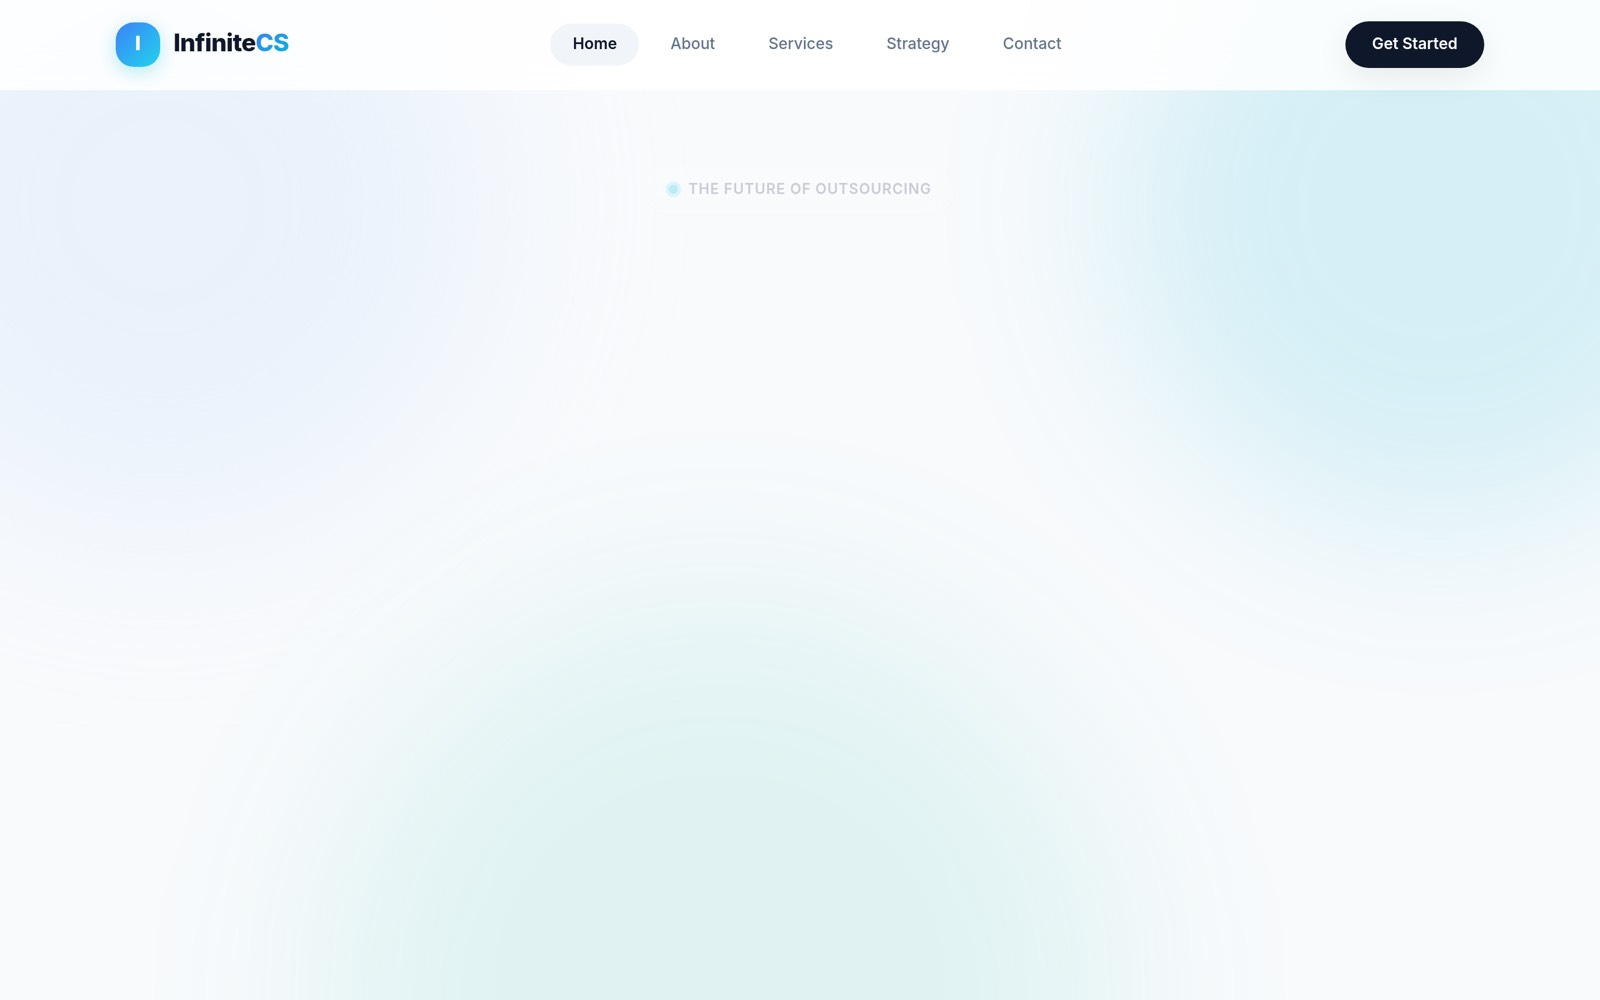
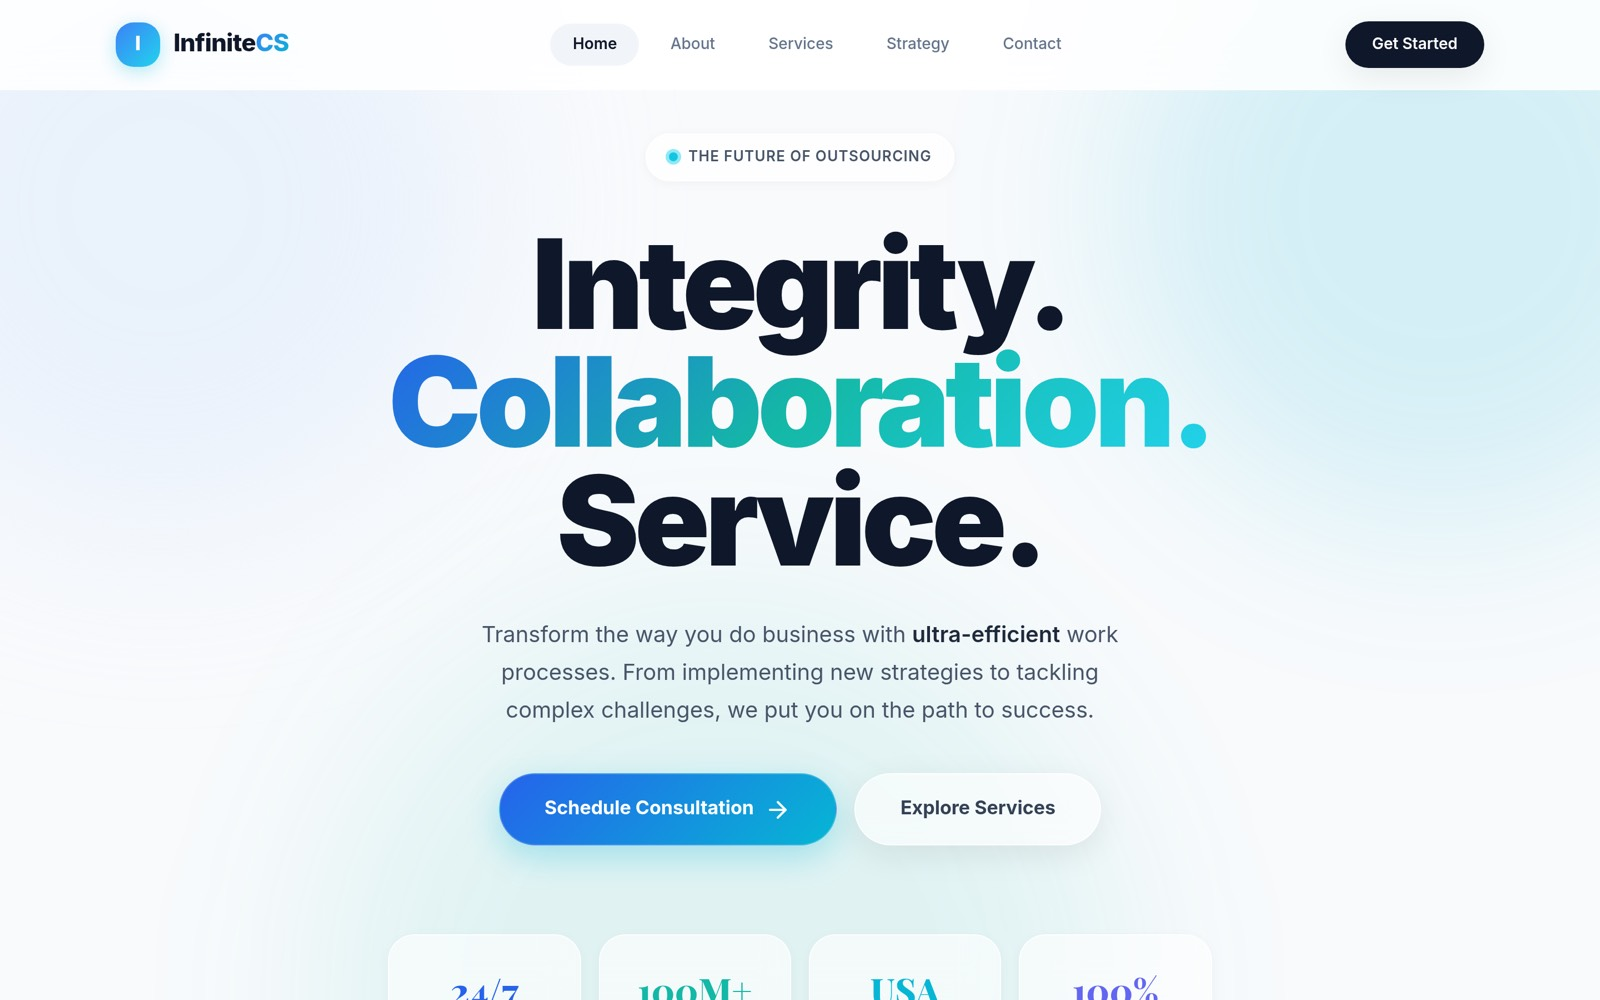
Fix invisible work images; bolder brume; Services page; richer case pages (full-page shots + plain-language outcome)

diff --git a/src/lib/content.ts b/src/lib/content.ts
@@ -41,7 +41,7 @@ export const LIVE: Record<Slug, string> = {
 export const content = {
   en: {
     htmlLang: "en",
-    nav: { work: "Work", studio: "Studio", contact: "Contact", cta: "Start a conversation" },
+    nav: { work: "Work", services: "Services", studio: "Studio", contact: "Contact", cta: "Start a conversation" },
     meta: {
       title: "Maison Brume — Editorial web design for fashion houses",
       description:
@@ -68,6 +68,8 @@ export const content = {
       closingCta: "Message the studio",
       caseLead: "Convinced? The studio is one message away.",
       caseCta: "Message about a house like this",
+      plainLabel: "In plain terms",
+      fullCaption: "The site, top to bottom",
       view: "View",
       live: "View live",
       back: "All work",
@@ -83,6 +85,20 @@ export const content = {
       eyebrow: "How it begins",
       title: "No deck. No discovery retainer.",
       body: "I study your business, then design a tailored concept of your site — yours to see before any commitment. If it moves you, we build it. If it doesn't, you keep the thinking.",
+    },
+    services: {
+      eyebrow: "Services",
+      title: "What I can build for your business.",
+      intro: "Not just a pretty page. The whole machine behind it — the site, the dashboard, the automations that run while you sleep.",
+      items: [
+        { name: "One-page sites", outcome: "One scroll, one message, launched fast. For a collection, a drop, a single statement that has to land." },
+        { name: "Multipage sites", outcome: "A full brand world — story, collection, atelier, contact. Room for the house to breathe and the customer to wander." },
+        { name: "Business dashboards", outcome: "See everything in one place — sales, clients, stock, orders, what is working and what is leaking. Stop running the business from spreadsheets and memory." },
+        { name: "AI assistants & bots", outcome: "A concierge that answers, qualifies and books — on the site and on WhatsApp — at 3am, in your voice, without you." },
+        { name: "Email & message automation", outcome: "Follow-ups that send themselves. Welcome, remind, recover the abandoned order, re-engage the quiet client — without you remembering to." },
+        { name: "Rebrands & redesigns", outcome: "Same house, finally dressed right. The single change that makes everything after it look more expensive." },
+      ],
+      cta: "Tell me what you need",
     },
     studio: {
       eyebrow: "Studio",
@@ -114,6 +130,7 @@ export const content = {
         approach: "Editorial pacing over commerce. A pinned horizontal atelier sequence, a drag-snap collection, smooth-scroll choreography. Restraint made the brand's voice.",
         craft: "Cormorant Garamond paired with Markazi Text so the Arabic reads as composed editorial, not a flipped Latin layout. Around 3,200 lines, no framework, deploys anywhere.",
         result: "A prototype that reads like a house, not a theme.",
+        plain: "In plain terms: a brand-new label that looks established and expensive from its first day online — the kind of first impression that lets a house charge what it is worth.",
       },
       "nota-parfum": {
         name: "Nota Parfum", kind: "Fès perfume house · concept",
@@ -121,6 +138,7 @@ export const content = {
         approach: "An unsolicited, fully-built proposal — their real catalogue, prices and voice baked in. The argument made by showing, not pitching.",
         craft: "An Astro component system, an opening ritual, fragrance cards, WhatsApp-native ordering, fully tested.",
         result: "A complete site, delivered before the conversation. The method, made tangible.",
+        plain: "In plain terms: instead of a pitch deck, they got a finished site with their own products already in it — the fastest possible way to show what working together actually feels like.",
       },
       "cgs-language-services": {
         name: "CGS Language Services", kind: "Translation house · shipped to production",
@@ -128,6 +146,7 @@ export const content = {
         approach: "One promise — 24-hour, university-accepted document translation — carried through a WhatsApp-first funnel. No portals, no service bloat. Motion and type tuned to read admissions-grade, not corporate-template.",
         craft: "Four-language i18n with language-aware dir and lang, Arabic flipping to right-to-left at the root via logical properties so every layout stays mirror-correct. React, Vite, Tailwind, Framer Motion. Around 2,000 lines, shipped to production.",
         result: "A four-language site live for a real agency — Arabic composed, not bolted on.",
+        plain: "In plain terms: a translation business that now looks as trustworthy as the universities it serves — in four languages — and turns visitors into WhatsApp enquiries instead of losing them.",
       },
       "china-global-study": {
         name: "China Global Study", kind: "Placement agency · shipped, in daily use",
@@ -135,6 +154,7 @@ export const content = {
         approach: "One pipeline, end to end — eight stages from inquiry to enrolled, drag-and-drop, money tracked where it belongs, document state at a glance. Built to be lived in, not demoed.",
         craft: "Next.js on Supabase — seven referential tables, payment status governed by strict rules, an eight-stage kanban, five swappable themes. Around 4,000 lines, shipped to production.",
         result: "The spreadsheets are gone. It is open every working day.",
+        plain: "In plain terms: the agency stopped losing students inside spreadsheets. Every applicant, payment and document is now one glance away — and the team actually opens it every day.",
       },
       infinitecs: {
         name: "InfiniteCS", kind: "Enterprise marketing site · showcase",
@@ -142,13 +162,14 @@ export const content = {
         approach: "Glassmorphism over deep slate, editorial scale, GSAP scroll choreography, animated impact figures, a single clear funnel — then the sections any serious B2B site needs, which the brief had left out.",
         craft: "Vite and vanilla JS — no framework, no backend, one static bundle. Design-token-driven, around 2,500 lines, eleven sections.",
         result: "The prospect shelved the project. The work was too good to bury — so it is here.",
+        plain: "In plain terms: even a project that never went live shows the standard — premium, considered, the exact opposite of a template.",
       },
     },
   },
 
   fr: {
     htmlLang: "fr",
-    nav: { work: "Travaux", studio: "Le studio", contact: "Contact", cta: "Engager la conversation" },
+    nav: { work: "Travaux", services: "Prestations", studio: "Le studio", contact: "Contact", cta: "Engager la conversation" },
     meta: {
       title: "Maison Brume — Design web éditorial pour maisons de mode",
       description:
@@ -175,6 +196,8 @@ export const content = {
       closingCta: "Écrire au studio",
       caseLead: "Convaincu ? Le studio est à un message près.",
       caseCta: "Écrire au sujet d'une maison comme celle-ci",
+      plainLabel: "En clair",
+      fullCaption: "Le site, de haut en bas",
       view: "Découvrir",
       live: "Voir en ligne",
       back: "Tous les travaux",
@@ -190,6 +213,20 @@ export const content = {
       eyebrow: "Comment cela commence",
       title: "Pas de présentation. Pas d'acompte de cadrage.",
       body: "J'étudie votre activité, puis je conçois un concept sur mesure de votre site — à voir avant tout engagement. S'il vous touche, nous le construisons. Sinon, la réflexion vous reste acquise.",
+    },
+    services: {
+      eyebrow: "Prestations",
+      title: "Ce que je peux construire pour votre activité.",
+      intro: "Pas seulement une belle page. Toute la mécanique derrière — le site, le tableau de bord, les automatisations qui tournent pendant que vous dormez.",
+      items: [
+        { name: "Sites une page", outcome: "Un seul défilement, un seul message, lancé vite. Pour une collection, un drop, une déclaration qui doit faire mouche." },
+        { name: "Sites multipages", outcome: "Un univers de marque complet — histoire, collection, atelier, contact. De l'espace pour que la maison respire." },
+        { name: "Tableaux de bord", outcome: "Tout voir au même endroit — ventes, clients, stock, commandes, ce qui marche et ce qui fuit. Finis le tableur et la mémoire." },
+        { name: "Assistants & bots IA", outcome: "Un concierge qui répond, qualifie et réserve — sur le site et sur WhatsApp — à 3h du matin, dans votre voix, sans vous." },
+        { name: "Automatisation e-mail & messages", outcome: "Des relances qui s'envoient seules. Accueillir, rappeler, récupérer le panier abandonné, réveiller le client silencieux — sans y penser." },
+        { name: "Refontes & rebranding", outcome: "La même maison, enfin bien habillée. Le seul changement qui rend tout le reste plus cher." },
+      ],
+      cta: "Dites-moi ce qu'il vous faut",
     },
     studio: {
       eyebrow: "Le studio",
@@ -221,6 +258,7 @@ export const content = {
         approach: "Le rythme éditorial avant le commerce. Une séquence atelier horizontale épinglée, une collection à défilement aimanté, une chorégraphie au scroll. La retenue est devenue la voix de la marque.",
         craft: "Cormorant Garamond associé à Markazi Text pour que l'arabe se lise comme un éditorial composé, et non comme une mise en page latine inversée. Environ 3 200 lignes, sans framework, déployable partout.",
         result: "Un prototype qui se lit comme une maison, pas comme un template.",
+        plain: "En clair : une toute jeune marque qui paraît établie et chère dès son premier jour en ligne — la première impression qui permet à une maison de facturer ce qu'elle vaut.",
       },
       "nota-parfum": {
         name: "Nota Parfum", kind: "Maison de parfum fassie · concept",
@@ -228,6 +266,7 @@ export const content = {
         approach: "Une proposition spontanée et entièrement construite — leur vrai catalogue, leurs prix et leur voix intégrés. La démonstration par la preuve, non par le discours.",
         craft: "Un système de composants Astro, un rituel d'ouverture, des cartes de fragrance, la commande native par WhatsApp, entièrement testé.",
         result: "Un site complet, livré avant la conversation. La méthode, rendue tangible.",
+        plain: "En clair : au lieu d'un dossier de présentation, ils ont reçu un site fini avec leurs propres produits dedans — la façon la plus rapide de montrer ce que travailler ensemble donne vraiment.",
       },
       "cgs-language-services": {
         name: "CGS Language Services", kind: "Maison de traduction · livré en production",
@@ -235,6 +274,7 @@ export const content = {
         approach: "Une seule promesse — la traduction de documents acceptée par les universités en 24 heures — portée par un tunnel WhatsApp d'abord. Pas de portail, pas de superflu. Mouvement et typographie réglés pour un ton d'admission, non corporate-template.",
         craft: "Une i18n en quatre langues avec dir et lang adaptés, l'arabe basculant de droite à gauche à la racine via les propriétés logiques pour que chaque mise en page reste correctement en miroir. React, Vite, Tailwind, Framer Motion. Environ 2 000 lignes, livré en production.",
         result: "Un site en quatre langues en ligne pour une vraie agence — l'arabe composé, non ajouté après coup.",
+        plain: "En clair : une activité de traduction qui paraît désormais aussi fiable que les universités qu'elle sert — en quatre langues — et qui transforme les visiteurs en demandes WhatsApp au lieu de les perdre.",
       },
       "china-global-study": {
         name: "China Global Study", kind: "Agence de placement · livré, en usage quotidien",
@@ -242,6 +282,7 @@ export const content = {
         approach: "Un pipeline unique, de bout en bout — huit étapes de la demande à l'inscription, glisser-déposer, l'argent suivi là où il doit l'être, l'état des documents d'un coup d'œil. Conçu pour être habité, non démontré.",
         craft: "Next.js sur Supabase — sept tables référentielles, un statut de paiement gouverné par des règles strictes, un kanban à huit étapes, cinq thèmes interchangeables. Environ 4 000 lignes, livré en production.",
         result: "Les tableurs ont disparu. Il est ouvert chaque jour ouvré.",
+        plain: "En clair : l'agence a cessé de perdre des étudiants dans des tableurs. Chaque candidat, paiement et document est désormais à un coup d'œil — et l'équipe l'ouvre vraiment chaque jour.",
       },
       infinitecs: {
         name: "InfiniteCS", kind: "Site corporate · démonstration",
@@ -249,6 +290,7 @@ export const content = {
         approach: "Glassmorphism sur ardoise profonde, échelle éditoriale, chorégraphie GSAP au scroll, chiffres d'impact animés, un tunnel unique et clair — puis les sections que tout site B2B sérieux exige et que le brief avait omises.",
         craft: "Vite et JS vanilla — sans framework, sans backend, un seul bundle statique. Piloté par des design tokens, environ 2 500 lignes, onze sections.",
         result: "Le prospect a remisé le projet. Le travail était trop abouti pour rester au tiroir — alors il est montré.",
+        plain: "En clair : même un projet jamais mis en ligne montre le niveau — premium, réfléchi, tout le contraire d'un template.",
       },
     },
   },

diff --git a/src/styles/global.css b/src/styles/global.css
@@ -191,31 +191,26 @@
     transform-origin: left;
   }
 
-  /* Reveal — single restrained entrance. JS adds .is-in. */
-  .reveal {
+  /* Reveal — single restrained entrance. Hidden state applies ONLY when
+     <html class="js"> is set, so no-JS / JS-failure shows everything. */
+  .reveal { transition: opacity 1s var(--ease), transform 1s var(--ease); }
+  html.js .reveal {
     opacity: 0;
     transform: translateY(18px);
-    transition: opacity 1s var(--ease), transform 1s var(--ease);
     will-change: opacity, transform;
   }
-  .reveal.is-in {
+  html.js .reveal.is-in {
     opacity: 1;
     transform: none;
   }
 
   /* Image reveal — clipped curtain + slow settle. The premium tell. */
-  .reveal--img {
-    transform: none;
-    opacity: 1;
-    clip-path: inset(0 0 100% 0);
-    transition: clip-path 1.3s var(--ease);
-  }
-  .reveal--img.is-in { clip-path: inset(0 0 0 0); }
-  .reveal--img img {
-    transform: scale(1.07);
-    transition: transform 1.6s var(--ease);
-  }
-  .reveal--img.is-in img { transform: scale(1); }
+  .reveal--img { transition: clip-path 1.3s var(--ease); }
+  html.js .reveal--img { clip-path: inset(0 0 100% 0); }
+  html.js .reveal--img.is-in { clip-path: inset(0 0 0 0); }
+  .reveal--img img { transition: transform 1.6s var(--ease); }
+  html.js .reveal--img img { transform: scale(1.07); }
+  html.js .reveal--img.is-in img { transform: scale(1); }
 
   /* SVG ornament — quiet maker's-mark detail */
   .ornament {